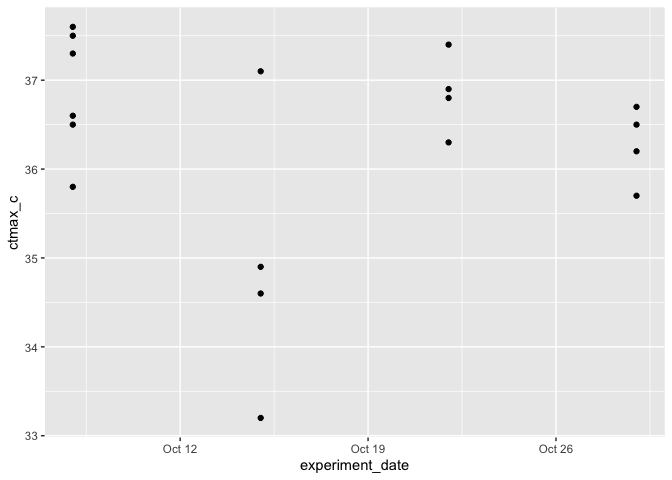
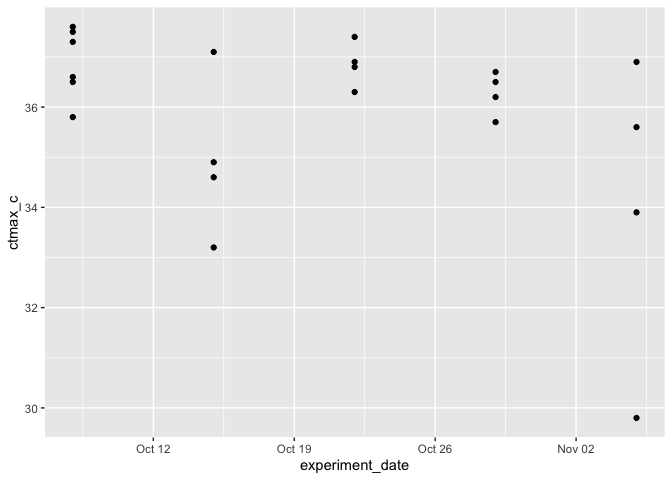
Final batch of CTmax data

diff --git a/Output/Reports/report.md b/Output/Reports/report.md
@@ -127,10 +127,10 @@ car::Anova(ctmax.model, type = "III")
 ## 
 ## Response: ctmax_c
 ##                       Chisq Df Pr(>Chisq)    
-## (Intercept)       6211.8752  1  < 2.2e-16 ***
-## MP_treatment         0.5835  2      0.747    
-## diet                29.7723  1  4.859e-08 ***
-## MP_treatment:diet    2.9838  2      0.225    
+## (Intercept)       5018.2599  1  < 2.2e-16 ***
+## MP_treatment         0.1930  2     0.9080    
+## diet                21.1961  1  4.146e-06 ***
+## MP_treatment:diet    0.3188  2     0.8527    
 ## ---
 ## Signif. codes:  0 '***' 0.001 '**' 0.01 '*' 0.05 '.' 0.1 ' ' 1
 ```
